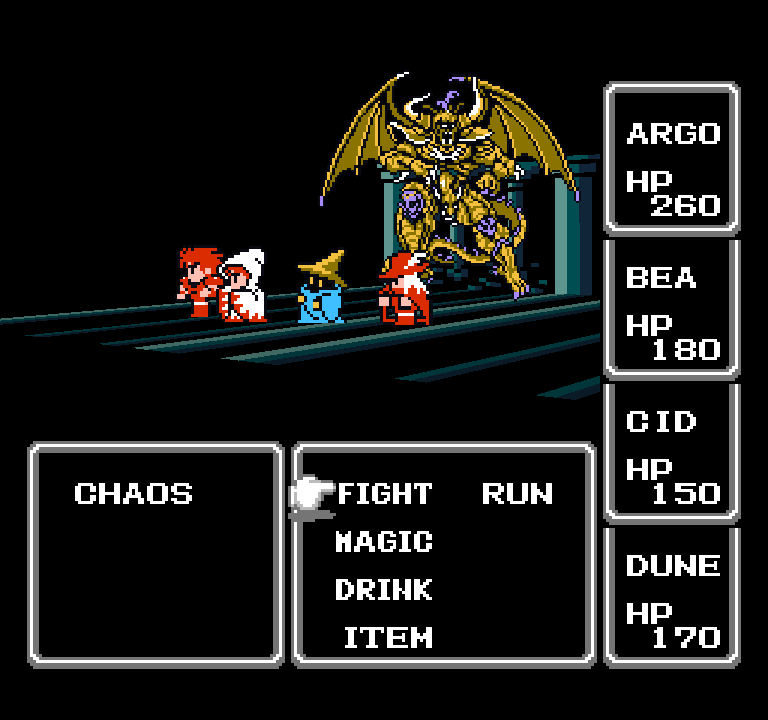
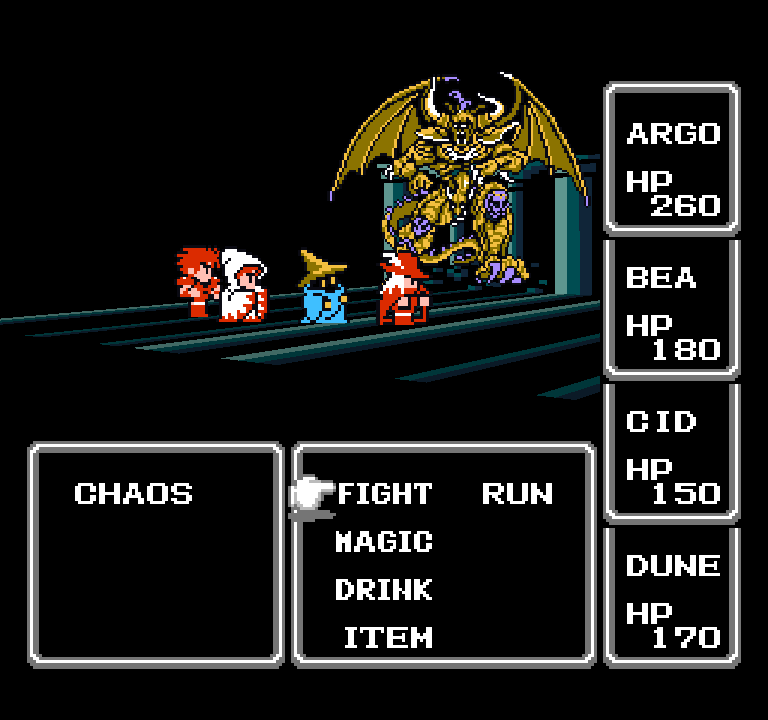
3D battles: the party faces the enemies from every camera
The cutouts kept the NES picture's facing (the party looking left), so
when the camera saw the enemies to the party's right (the boss shot, the
right shoulder) the party looked away. ff1_battle_flip mirrors the
cutouts and their offsets then; it's decided once per battle from the
shot. The README's 3D battle shots are retaken.

Changed region(s): [[0.2188, 0.0917, 0.7812, 0.4583]]

diff --git a/src/ff1core.c b/src/ff1core.c
@@ -1169,8 +1169,14 @@ FF1_API int ff1_sprites(Ff1Vertex* out, int max, uint8_t* atlas, float yaw) {
 #define BA_BACK_Y 480           /* ...the backdrop's copy at (0, 480) */
 #define BA_PAD 2                /* air round each cutout, for its outline */
 static float ba_stagger;        /* each party row this much further back (ff1_battle_stagger) */
+static int ba_flip;             /* the cutouts mirrored (ff1_battle_flip) */
 
 FF1_API void ff1_battle_stagger(float s) { ba_stagger = s; }
+
+/* Seen from the camera, the enemies stand to the right of the party: the
+ * cutouts are mirrored, so the party (facing left on the NES screen) and
+ * the enemies (facing right) still face each other. */
+FF1_API void ff1_battle_flip(int on) { ba_flip = on; }
 #define UI_X 200                /* the menus and status: x >= 200 or y >= 144 */
 #define UI_Y 144
 
@@ -1193,6 +1199,7 @@ static void ba_stand(Emit* e, float lx, float z, float w, float y0, float y1, fl
     const float p[4][3] = { { lx - hx, y1, z - hz }, { lx + hx, y1, z + hz },
                             { lx + hx, y0, z + hz }, { lx - hx, y0, z - hz } };
     const float k = (float)FF1_ATLAS_W / BA_W, kv = (float)FF1_ATLAS_H / BA_W;   /* (emit_quad's units) */
+    if (ba_flip) { float t = u0; u0 = u1; u1 = t; }
     const float uv[4][2] = { { u0 * k, v0 * kv }, { u1 * k, v0 * kv }, { u1 * k, v1 * kv }, { u0 * k, v1 * kv } };
     emit_quad(e, p, uv, 255);
 }
@@ -1336,13 +1343,13 @@ FF1_API int ff1_battle_scene(Ff1Vertex* out, int max, uint8_t* atlas, float rx, 
         float across, z, foot;
         if (en >= 0) {                                 /* just in front of that enemy */
             float ecx = (float)(v.enemy[en].x + v.enemy[en].w / 2);
-            float off = cx - ecx;
+            float off = (cx - ecx) * (ba_flip ? -1 : 1);
             z = ecx + 2 + off * rz;
             across = (float)(v.enemy[en].y + v.enemy[en].h / 2) + off * rx;
             foot = (float)(v.enemy[en].y + v.enemy[en].h);
         } else if (b >= 0 && b < 4 && cy >= v.party_y) {   /* with its row's character */
             float rzc = row_has[b] ? row_z[b] : cx;
-            float off = g[i].party ? 0 : cx - rzc;
+            float off = g[i].party ? 0 : (cx - rzc) * (ba_flip ? -1 : 1);
             z = rzc + off * rz + (g[i].party ? 0 : 1);     /* (a weapon a hair in front) */
             across = (float)(v.party_y + b * v.party_row + v.party_row / 2) + off * rx;
             foot = (float)(v.party_y + b * v.party_row + 24);

diff --git a/src/ff1core.h b/src/ff1core.h
@@ -123,6 +123,10 @@ FF1_API int ff1_battle_scene(Ff1Vertex* out, int max, uint8_t* atlas, float rx, 
  *  as seen from the camera's side. */
 FF1_API void ff1_battle_stagger(float s);
 
+/** Mirror the battle's cutouts (when the camera sees the enemies to the
+ *  party's right), so the party and the enemies face each other. */
+FF1_API void ff1_battle_flip(int on);
+
 /** Clear the stage area of a picture from ff1_draw, leaving the menus and
  *  the status column to draw over the diorama. */
 FF1_API void ff1_battle_overlay(uint8_t* rgba);
